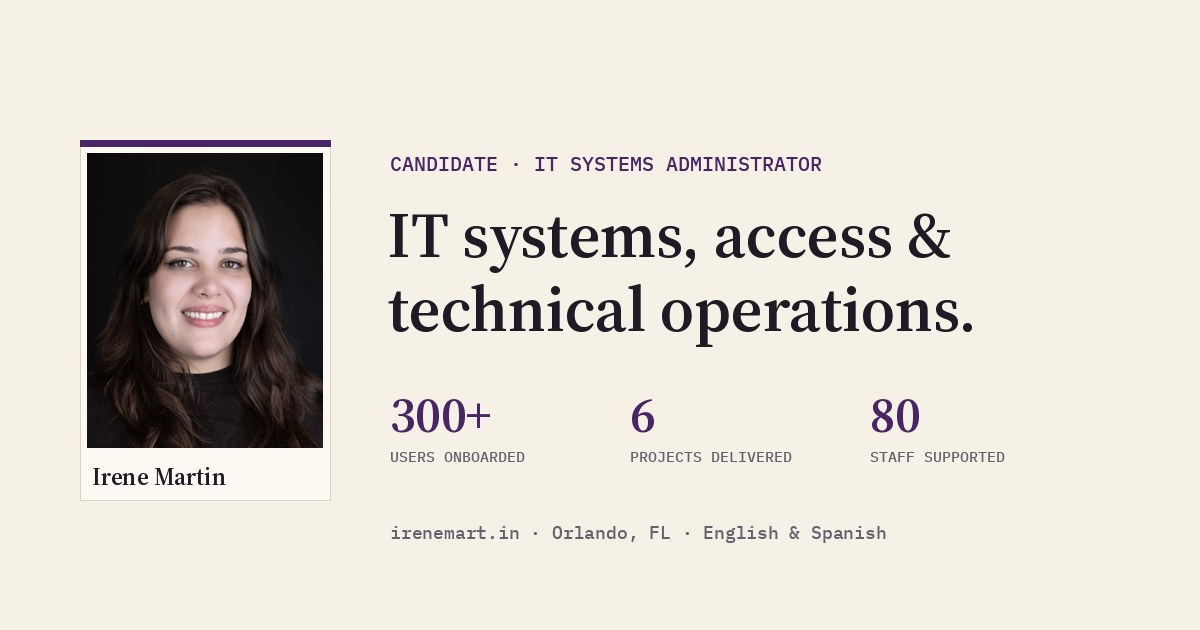
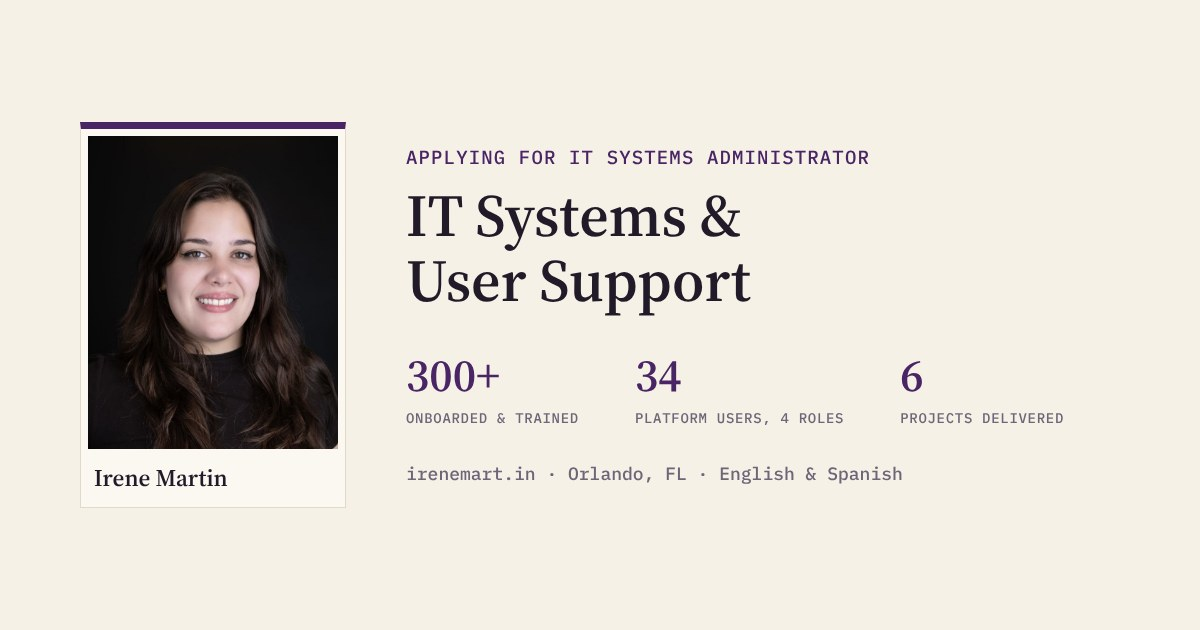
Wording pass and bug fixes: nav highlight, lightbox close button, 404 page, new share image
Claude-Session: https://claude.ai/code/session_01NYLiAGraZxhxKf564HUnvc

diff --git a/index.html b/index.html
@@ -3,15 +3,15 @@
 <head>
   <meta charset="utf-8">
   <meta name="viewport" content="width=device-width, initial-scale=1">
-  <title>Irene Martin: IT Systems, Access &amp; Support</title>
-  <meta name="description" content="Irene Martin, Orlando FL. Accounts and access, user and workstation support, application support, documentation, and live systems I built and support.">
+  <title>Irene Martin: IT Systems &amp; User Support</title>
+  <meta name="description" content="Irene Martin, Orlando FL. Accounts and access, user and workstation support, application support, documentation, and live business systems I built.">
   <meta name="author" content="Irene Martin">
   <meta name="theme-color" content="#f7f1e5">
   <link rel="canonical" href="https://irenemart.in/">
 
   <meta property="og:type" content="website">
   <meta property="og:site_name" content="Irene Martin">
-  <meta property="og:title" content="Irene Martin: IT Systems, Access &amp; Support">
+  <meta property="og:title" content="Irene Martin: IT Systems &amp; User Support">
   <meta property="og:description" content="IT systems and user support. Orlando, Florida · English &amp; Spanish.">
   <meta property="og:url" content="https://irenemart.in/">
   <meta property="og:image" content="https://irenemart.in/assets/og-image.jpg">
@@ -19,15 +19,15 @@
   <meta property="og:image:height" content="630">
   <meta property="og:image:alt" content="Irene Martin — IT systems, access and technical operations">
   <meta name="twitter:card" content="summary_large_image">
-  <meta name="twitter:title" content="Irene Martin: IT Systems, Access &amp; Support">
+  <meta name="twitter:title" content="Irene Martin: IT Systems &amp; User Support">
   <meta name="twitter:description" content="IT systems and user support. Orlando, Florida.">
   <meta name="twitter:image" content="https://irenemart.in/assets/og-image.jpg">
 
   <link rel="icon" href="/favicon.svg" type="image/svg+xml">
   <link rel="apple-touch-icon" href="/assets/apple-touch-icon.png">
   <link rel="preload" href="/assets/fonts/source-serif-4-600.woff" as="font" type="font/woff" crossorigin>
-  <link rel="stylesheet" href="/assets/styles.css?v=27">
-  <script src="/assets/main.js?v=20" defer></script>
+  <link rel="stylesheet" href="/assets/styles.css?v=29">
+  <script src="/assets/main.js?v=21" defer></script>
 </head>
 <body>
 <a class="skip" href="#main">Skip to content</a>
@@ -54,7 +54,6 @@
       <img class="portrait" src="/assets/irene-480.jpg?v=2" srcset="/assets/irene-480.jpg?v=2 480w, /assets/irene-800.jpg?v=2 800w" sizes="(max-width: 640px) 84px, 120px" width="480" height="600" alt="Portrait of Irene Martin">
       <div class="id__info">
         <p class="id__name">Irene Martin</p>
-        <p class="id__role">IT Systems &amp; User Support</p>
         <ul class="id__meta">
           <li>Orlando, FL · English &amp; Spanish</li>
           <li><a href="https://www.linkedin.com/in/irene-martin-a4ab85222" rel="noopener" target="_blank">LinkedIn<span class="sr-only"> (opens in new tab)</span></a> · <a href="https://github.com/irenemartin1" rel="noopener" target="_blank">GitHub<span class="sr-only"> (opens in new tab)</span></a></li>
@@ -63,14 +62,14 @@
       </div>
     </div>
 
-    <p class="eyebrow">Applying for: IT Systems Administrator, Orange County Library System</p>
-    <h1 id="hero-title">I set up accounts and permissions, fix login and access problems, support staff on business software, and build and run live systems.</h1>
-    <p class="hero__lede">Two years in operations at Prime Healthcare supporting teams of up to 80. Since May 2025, building and supporting live software at eBuilt.app: six projects for different businesses, each a new industry, toolset and set of users to learn quickly.</p>
+    <p class="eyebrow">Applying for IT Systems Administrator · Orange County Library System</p>
+    <h1 id="hero-title">I manage user accounts and permissions, troubleshoot sign-in and access across business portals, support staff on their software, and build and maintain business applications.</h1>
+    <p class="hero__lede">Since May 2025, I’ve built and supported software for six businesses through eBuilt.app, learning a new industry, toolset and group of users each time. Before that, I spent two years in operations at Prime Healthcare, supporting teams of up to 80.</p>
     <p class="hero__resume"><a class="btn btn--resume" href="/resume/"><svg class="ico" viewBox="0 0 16 16" aria-hidden="true" focusable="false"><path d="M4 1.5h5.5L13 5v9.5H4z M9.5 1.5V5H13 M6 8.5h5 M6 11h5" fill="none" stroke="currentColor" stroke-width="1.4" stroke-linejoin="round"/></svg>View my resume</a></p>
 
     <ul class="stats">
       <li><b>300+</b><span>Employees and agents onboarded and trained at Prime Healthcare, over two years</span></li>
-      <li><b>34</b><span>Users across four roles on M.D. Sky OS, which I built and support</span></li>
+      <li><b>34</b><span>Users across four roles on M.D. Sky OS, a platform I built and maintain</span></li>
       <li><b>6</b><span>Software projects delivered since May 2025</span><a class="stats__link" href="https://maps.app.goo.gl/6jQdZRucEyn9rGcS8" rel="noopener" target="_blank"><span aria-hidden="true">★</span> Client reviews on Google<span class="sr-only"> (opens in new tab)</span> ↗</a></li>
     </ul>
 
@@ -85,26 +84,26 @@
 <section class="section section--tint" id="skills" aria-labelledby="skills-title">
   <div class="wrap">
     <h2 id="skills-title" class="title">Skills</h2>
-    <p class="section__note">Grouped by the duties in the OCLS posting. Each row: where I did it, and the tools.</p>
+    <p class="section__note">Grouped by the duties in the OCLS job posting, with where I did the work and the tools I used.</p>
     <dl class="fit">
-      <div><dt>Accounts &amp; access<span>Prime · M.D. Sky OS</span></dt><dd>Set up accounts and permissions for 300+ employees and agents. Built Google OAuth sign-in, role-based access and database access policies for a four-role platform.<p class="fit__tools">User provisioning · Google OAuth · RBAC · database access policies · permission testing</p></dd></div>
-      <div><dt>User &amp; workstation support<span>Prime</span></dt><dd>Fixed login, application, Windows, macOS and connectivity problems for teams of up to 80. Explained fixes in plain English or Spanish.<p class="fit__tools">Windows · macOS · login and access issues · connectivity · user guidance</p></dd></div>
-      <div><dt>Application support &amp; changes<span>Prime · eBuilt</span></dt><dd>Supported staff on Sircon, CMS insurance platforms, carrier portals and RingCentral. On my own systems: investigate defects, test across roles, verify releases, roll back through Git.<p class="fit__tools">Git · GitHub · Supabase · PostgreSQL · release verification · rollback</p></dd></div>
-      <div><dt>Documentation &amp; training<span>Prime · M.D. Sky OS</span></dt><dd>Onboarded and trained 300+ people. Wrote the procedures they worked from. Built role-specific help articles and walkthroughs.<p class="fit__tools">Procedures · training material · help center · walkthroughs</p></dd></div>
-      <div><dt>Scripting &amp; integrations<span>eBuilt</span></dt><dd>Connected Google OAuth, mapping, email, payment and logistics services with JavaScript and APIs. Automated recurring workflows.<p class="fit__tools">JavaScript · React · APIs · webhooks · automation</p></dd></div>
-      <div><dt>Networking fundamentals<span>eBuilt</span></dt><dd>Configured domains and DNS on Cloudflare for live sites. Set up routers and Wi-Fi. Working knowledge of TCP/IP and DHCP.<p class="fit__tools">DNS · Cloudflare · router/Wi-Fi · TCP/IP · DHCP</p></dd></div>
-      <div><dt>AI adoption<span>eBuilt</span></dt><dd>Build with Claude and other AI tools daily and help businesses adopt them in real workflows. Can support configuration, access and staff training for an enterprise AI rollout.<p class="fit__tools">Claude · ChatGPT · Gemini · Codex · AI-assisted development · user training</p></dd></div>
-      <div><dt>Business tools<span>Used daily</span></dt><dd><p class="fit__tools fit__tools--only">Google Workspace · Microsoft 365 · RingCentral · Priority1 TMS · Sircon · carrier portals · QuickBooks · LeadConnector</p></dd></div>
+      <div><dt>Accounts &amp; access<span>Prime · M.D. Sky OS</span></dt><dd>Provisioned accounts and permissions for 300+ employees and agents and resolved their sign-in and access issues across business and carrier portals. Built Google OAuth sign-in, role-based access and database access policies for a four-role platform.<p class="fit__tools">User provisioning · Google OAuth · RBAC · database access policies · permission testing</p></dd></div>
+      <div><dt>User &amp; workstation support<span>Prime</span></dt><dd>Troubleshot login, application, Windows, macOS and connectivity issues for teams of up to 80, and walked users through each resolution in English or Spanish.<p class="fit__tools">Windows · macOS · login and access issues · connectivity · user guidance</p></dd></div>
+      <div><dt>Application support &amp; changes<span>Prime · eBuilt</span></dt><dd>Supported staff on Sircon, CMS insurance platforms, carrier portals and RingCentral. On the systems I build, I investigate defects, test every user role, verify releases and roll back through Git when needed.<p class="fit__tools">Git · GitHub · Supabase · PostgreSQL · release verification · rollback</p></dd></div>
+      <div><dt>Documentation &amp; training<span>Prime · M.D. Sky OS</span></dt><dd>Ran onboarding and training at Prime and wrote the procedures staff worked from. Built role-specific help articles and guided walkthroughs for M.D. Sky OS.<p class="fit__tools">Procedures · training material · help center · walkthroughs</p></dd></div>
+      <div><dt>Scripting &amp; integrations<span>eBuilt</span></dt><dd>Connected Google OAuth, mapping, email, payment and logistics services using JavaScript and APIs, and automated recurring workflows.<p class="fit__tools">JavaScript · React · APIs · webhooks · automation</p></dd></div>
+      <div><dt>Networking fundamentals<span>eBuilt</span></dt><dd>Configured domains and DNS on Cloudflare for live sites and set up routers and Wi-Fi. Working knowledge of TCP/IP and DHCP.<p class="fit__tools">DNS · Cloudflare · router/Wi-Fi · TCP/IP · DHCP</p></dd></div>
+      <div><dt>AI adoption<span>eBuilt</span></dt><dd>Build with Claude and other AI tools daily and help businesses adopt them in real workflows. Ready to support configuration, access and staff training for an enterprise AI rollout.<p class="fit__tools">Claude · ChatGPT · Gemini · Codex · AI-assisted development · user training</p></dd></div>
+      <div><dt>Business tools<span>Prime · eBuilt</span></dt><dd><p class="fit__tools fit__tools--only">Google Workspace · Microsoft 365 · RingCentral · Priority1 TMS · Sircon · carrier portals · QuickBooks · LeadConnector</p></dd></div>
     </dl>
 
     <h3 class="subtitle" id="approach">How I troubleshoot</h3>
-    <p class="section__note steps__lede">I treat every issue as a system problem, not a single symptom: define who is affected, decide what matters most, check every layer, find the root cause, then fix it so it stays fixed.</p>
+    <p class="section__note steps__lede">I treat every issue as a system problem, not a single symptom. I define who is affected, decide what matters most, check every layer, find the root cause, and fix it so it stays fixed.</p>
     <ol class="steps steps--deep">
-      <li><b>Define the scope and the users.</b> Who is blocked, how many people, which roles or locations, since when, and what work has stopped. One user and a whole department are different problems.</li>
-      <li><b>Prioritize by impact.</b> Widespread or work-stopping issues come first. If people can’t work, I restore service with a safe workaround or rollback, then investigate.</li>
-      <li><b>Check the whole system.</b> Go layer by layer: account and permissions, device, network and DNS, application, data and integrations. Compare a user who works with one who doesn’t to narrow it down.</li>
-      <li><b>Find the root cause.</b> Reproduce it, get the exact error, check recent changes, and test one cause at a time. A reset that clears the symptom isn’t the answer until I know why it happened.</li>
-      <li><b>Fix, verify, close the loop.</b> Apply the fix within policy with a rollback ready, confirm with the affected users, document cause and fix, update the guide or setting that prevents a repeat, and escalate what’s beyond my access.</li>
+      <li><b>Define the scope and users</b> Find out who is blocked, how many people, which roles or locations, since when, and what work has stopped. One user and a whole department are different problems.</li>
+      <li><b>Prioritize by impact</b> Widespread or work-stopping issues come first. If people can’t work, I restore service with a safe workaround or rollback, then investigate.</li>
+      <li><b>Check the whole system</b> I go layer by layer: account and permissions, device, network and DNS, application, data and integrations. Compare a user who works with one who doesn’t to narrow it down.</li>
+      <li><b>Find the root cause</b> I reproduce it, capture the exact error, check recent changes, and test one cause at a time. A reset that clears the symptom isn’t the answer until I know why it happened.</li>
+      <li><b>Fix, verify, close the loop</b> I apply the fix within policy with a rollback ready, confirm it with the affected users, document the cause and fix, update the guide or setting that prevents a repeat, and escalate anything beyond my access.</li>
     </ol>
   </div>
 </section>
@@ -118,19 +117,19 @@
         <p class="timeline__date">May 2025 – Present</p>
         <div>
           <p class="timeline__role"><b>Founder &amp; Software Systems Developer</b> · eBuilt.app</p>
-          <p>Build and support live business software for clients. Configure authentication and permissions, troubleshoot defects, manage DNS and cloud deployments, verify releases, document changes. Six projects delivered.</p>
+          <p>Build and support live business software for clients: configure authentication and permissions, troubleshoot defects, manage DNS and cloud deployments, verify releases and document changes. Six projects delivered so far.</p>
         </div>
       </li>
       <li>
         <p class="timeline__date">May 2023 – May 2025</p>
         <div>
           <p class="timeline__role"><b>Insurance Sales Representative → Operations Systems &amp; Sales Manager</b> · Prime Healthcare</p>
-          <p>Promoted into operations. Handled employee accounts, workstations, business platforms, onboarding and training for teams of up to 80. Onboarded and trained 300+ employees and agents. Built procedures and tracking for licensing, compliance, scheduling and payroll.</p>
+          <p>Promoted from sales into operations. Managed employee accounts, workstations, business platforms, onboarding and training for teams of up to 80, and onboarded and trained 300+ employees and agents. Built procedures and tracking for licensing, compliance, scheduling and payroll.</p>
         </div>
       </li>
     </ol>
 
-    <h3 class="subtitle" id="systems">Live systems I built and support</h3>
+    <h3 class="subtitle" id="systems">Live systems I built</h3>
     <article class="project" aria-labelledby="mdsky-title">
       <div class="project__text">
         <p class="status"><span aria-hidden="true"></span>Live</p>
@@ -140,7 +139,7 @@
           <li>Authentication and role-based access</li>
           <li>Database policies restricting access by role and ownership</li>
           <li>Role-specific support articles and guided walkthroughs</li>
-          <li>Workflow testing, version-controlled releases, deployment and DNS management</li>
+          <li>Workflow testing, version-controlled releases, deployment, and DNS management</li>
         </ul>
         <p class="project__foot"><a class="btn btn--small" href="https://mdskyos.com/" rel="noopener" target="_blank">Visit mdskyos.com<span class="sr-only"> (opens in new tab)</span> ↗</a></p>
       </div>
@@ -153,10 +152,10 @@
             <figcaption>Command center</figcaption>
           </figure>
           <figure class="phone">
-            <button class="phone__btn" type="button" data-full="/assets/shots/mdsky-signin-full.webp" data-alt="M.D. Sky OS sign-in page with separate entry points for owner or admin, dispatcher, driver and customer" aria-label="Enlarge screenshot: Separate sign-in for each of the 4 roles">
+            <button class="phone__btn" type="button" data-full="/assets/shots/mdsky-signin-full.webp" data-alt="M.D. Sky OS sign-in page with separate entry points for owner or admin, dispatcher, driver and customer" aria-label="Enlarge screenshot: Separate sign-in for each of the four roles">
               <picture><source type="image/webp" srcset="/assets/shots/mdsky-signin.webp"><img src="/assets/shots/mdsky-signin.png" width="477" height="800" loading="lazy" decoding="async" alt="M.D. Sky OS sign-in page with separate entry points for owner or admin, dispatcher, driver and customer"></picture>
             </button>
-            <figcaption>Separate sign-in for each of the 4 roles</figcaption>
+            <figcaption>Separate sign-in for each of the four roles</figcaption>
           </figure>
           <figure class="phone">
             <button class="phone__btn" type="button" data-full="/assets/shots/mdsky-howto-full.webp" data-alt="M.D. Sky OS how-to library listing step-by-step walkthroughs for routes and communication" aria-label="Enlarge screenshot: Support center: guided walkthroughs">
@@ -204,7 +203,7 @@
         <p class="project__sub">A booking website and database-backed administration portal.</p>
         <ul class="ticks">
           <li>Customer booking and administrative workflows</li>
-          <li>Client/pet records, bookings, and service-zone management</li>
+          <li>Client and pet records, bookings, and service-zone management</li>
           <li>Tested from customer submission through administrative review</li>
         </ul>
         <p class="project__foot"><a class="btn btn--small" href="https://mysweetpawtner.com/" rel="noopener" target="_blank">Visit mysweetpawtner.com<span class="sr-only"> (opens in new tab)</span> ↗</a></p>
@@ -244,7 +243,7 @@
     </div>
     <div class="contact__links">
       <a class="contact__email" href="mailto:hello@irenemart.in">hello@irenemart.in</a>
-      <p><a href="https://www.linkedin.com/in/irene-martin-a4ab85222" rel="noopener" target="_blank">LinkedIn<span class="sr-only"> (opens in new tab)</span> ↗</a> <a href="https://github.com/irenemartin1" rel="noopener" target="_blank">GitHub<span class="sr-only"> (opens in new tab)</span> ↗</a> <a href="https://irenemart.in/">irenemart.in</a></p>
+      <p><a href="https://www.linkedin.com/in/irene-martin-a4ab85222" rel="noopener" target="_blank">LinkedIn<span class="sr-only"> (opens in new tab)</span> ↗</a> <a href="https://github.com/irenemartin1" rel="noopener" target="_blank">GitHub<span class="sr-only"> (opens in new tab)</span> ↗</a></p>
     </div>
   </div>
   <div class="wrap footer">

diff --git a/assets/main.js b/assets/main.js
@@ -85,20 +85,24 @@
     setTimeout(function () { t.focus({ preventScroll: true }); }, reduceMotion ? 0 : 400);
   });
 
-  /* Mark the section currently in view in the nav */
-  if (!("IntersectionObserver" in window)) return;
-  var links = Array.prototype.slice.call(document.querySelectorAll(".nav a"));
-  var spy = new IntersectionObserver(function (entries) {
-    entries.forEach(function (en) {
-      if (!en.isIntersecting) return;
-      links.forEach(function (l) {
-        if (l.getAttribute("href") === "#" + en.target.id) l.setAttribute("aria-current", "true");
-        else l.removeAttribute("aria-current");
-      });
+  /* Mark the section currently in view in the nav (exactly one at a time) */
+  var links = Array.prototype.slice.call(document.querySelectorAll(".nav a[href^='#']"));
+  var sections = ["hero", "skills", "work", "contact"].map(function (id) { return document.getElementById(id); }).filter(Boolean);
+  var setCurrent = function () {
+    var line = window.innerHeight * 0.4, cur = null;
+    sections.forEach(function (s) { if (s.getBoundingClientRect().top <= line) cur = s.id; });
+    if (window.innerHeight + window.scrollY >= document.documentElement.scrollHeight - 4) cur = "contact";
+    links.forEach(function (l) {
+      if (l.getAttribute("href") === "#" + cur) l.setAttribute("aria-current", "true");
+      else l.removeAttribute("aria-current");
     });
-  }, { rootMargin: "-45% 0px -50% 0px" });
-  ["hero", "skills", "work", "contact"].forEach(function (id) {
-    var s = document.getElementById(id);
-    if (s) spy.observe(s);
-  });
+  };
+  var ticking = false;
+  window.addEventListener("scroll", function () {
+    if (ticking) return;
+    ticking = true;
+    requestAnimationFrame(function () { ticking = false; setCurrent(); });
+  }, { passive: true });
+  window.addEventListener("resize", setCurrent);
+  setCurrent();
 })();

diff --git a/assets/styles.css b/assets/styles.css
@@ -60,7 +60,10 @@ a:hover { color: var(--plum); text-decoration-thickness: 2px; }
 .nav { display: flex; gap: 26px; }
 .nav a { font-size: 14.5px; color: var(--ink-2); text-decoration: none; padding: 6px 0; }
 .nav { align-items: center; }
-.nav a:hover, .nav a[aria-current="true"] { color: var(--plum); box-shadow: inset 0 -2px 0 var(--plum); }
+.nav a[aria-current="true"] { color: var(--plum); box-shadow: inset 0 -2px 0 var(--plum); }
+@media (hover: hover) { .nav a:hover { color: var(--plum); } }
+.nav a:focus { outline: none; }
+.nav a:focus-visible { outline: 2px solid var(--plum-2); outline-offset: 3px; }
 @media (max-width: 640px) {
   .topbar__inner { flex-direction: column; align-items: stretch; height: auto; padding-top: 10px; gap: 4px; }
   .brand { gap: 8px; }
@@ -410,3 +413,11 @@ a:hover { color: var(--plum); text-decoration-thickness: 2px; }
   .steps--deep li::before { grid-row: span 2; margin-top: 4px; }
   .steps--deep b { margin-bottom: 4px; }
 }
+/* v28: lightbox close button sits above the image, never on it */
+.lightbox { max-height: none; }
+.lightbox__img { margin-top: 54px; max-height: calc(100vh - 90px); max-height: calc(100dvh - 90px); }
+.lightbox__close, .lightbox__close { top: 0; right: 0; }
+@media (max-width: 600px) { .lightbox__close { top: 0; right: 0; } }
+.notfound { padding: 80px 0 100px; }
+.notfound p { margin-top: 12px; color: var(--ink-2); }
+.notfound .btn { margin-top: 22px; }

diff --git a/404.html b/404.html
@@ -1,0 +1,23 @@
+<!doctype html>
+<html lang="en">
+<head>
+  <meta charset="utf-8">
+  <meta name="viewport" content="width=device-width, initial-scale=1">
+  <title>Page not found: Irene Martin</title>
+  <meta name="robots" content="noindex">
+  <link rel="icon" href="/favicon.svg" type="image/svg+xml">
+  <link rel="stylesheet" href="/assets/styles.css?v=29">
+</head>
+<body>
+<header class="topbar">
+  <div class="wrap topbar__inner">
+    <a class="brand" href="/"><span class="brand__name">Irene Martin</span><span class="brand__sep" aria-hidden="true">|</span><span class="brand__role">IT Systems &amp; User Support</span></a>
+  </div>
+</header>
+<main class="wrap notfound">
+  <h1 class="title">Page not found</h1>
+  <p>That link doesn’t exist on this site.</p>
+  <a class="btn btn--resume" href="/">Go to the portfolio</a>
+</main>
+</body>
+</html>

diff --git a/resume/index.html b/resume/index.html
@@ -8,7 +8,7 @@
   <meta name="theme-color" content="#f7f1e5">
   <link rel="canonical" href="https://irenemart.in/resume/">
   <link rel="icon" href="/favicon.svg" type="image/svg+xml">
-  <link rel="stylesheet" href="/assets/styles.css?v=26">
+  <link rel="stylesheet" href="/assets/styles.css?v=29">
 </head>
 <body class="resume-page">
 <a class="skip" href="#main">Skip to content</a>
